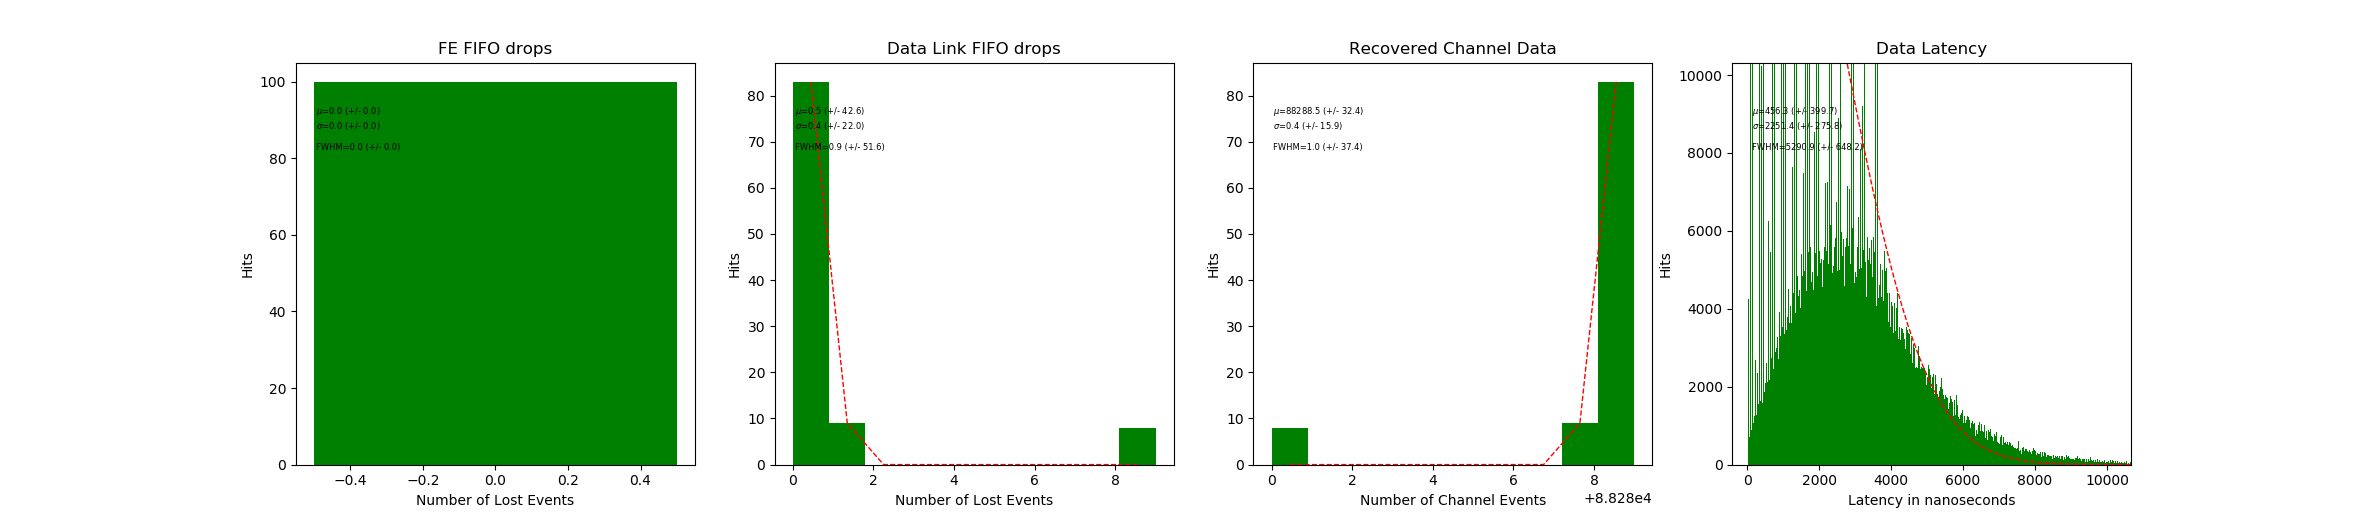
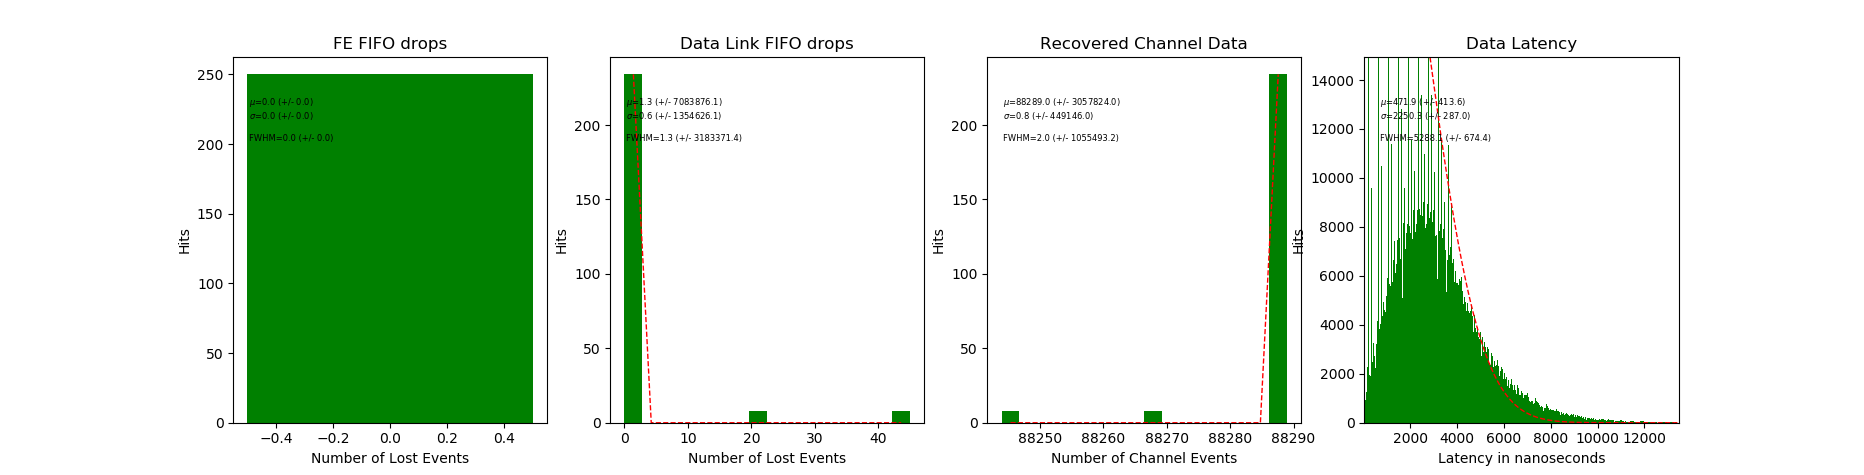
STEAMING

diff --git a/Simpy_SIZING.py b/Simpy_SIZING.py
@@ -88,7 +88,7 @@ if __name__ == '__main__':
                   'FIFO_out_depth': 64*4,
                   'FE_ch_latency' : 5120,
                   # Max Wilkinson Latency
-                  'TE' : 7,
+                  'TE' : 2,
                   'TGAIN' : 1,
                   'sensors' : 64,
                   'events' : events}
@@ -113,7 +113,7 @@ if __name__ == '__main__':
 
 
     fit = fit_library.gauss_fit()
-    fig = plt.figure(figsize=(12,4))
+    fig = plt.figure(figsize=(16,4))
     fit(lostP,'sqrt')
     fit.plot(axis = fig.add_subplot(141),
             title = "FE FIFO drops",
